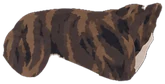
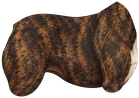
Hooper v3: galloping dog built from the green-screen parts sheet
New pieces (head with collar, torso, shoulder, thigh, and lower legs split at
the wrist and hock with round joints), assembled against the sheet's standing
dog. He now runs in a rotary gallop: back paws push, front paws reach, a beat
in the air with legs gathered. The spine bends (torso drawn as overlapping
strips along a curve), shoulders and haunches roll inside his outline, and
the neck edge is feathered where it sits on the body. Legs are longer to
match his taller build. No tail.

Claude-Session: https://claude.ai/code/session_0171wLnvZ3eAFLkSrXr3FSy1

diff --git a/scene/runner.js b/scene/runner.js
@@ -85,66 +85,97 @@ function makePuppet(imgs, parts, opt){
   return {draw:draw,groundSpeed:groundSpeed,leg:leg,hipY:hipY,jump:J}
 }
 
-/* Hooper's joints, in the v2 parts sheet's pixels (each piece's own coordinates). */
+/* Hooper's joints and rig (v3 parts sheet). Each piece has its own scale (s) to "dog units" = the sheet's standing dog in pixels,
+   a pivot in its own pixels, and for limbs an end joint. Torso and head are placed where they sit on the standing dog;
+   the hip is the body's origin. Legs have three bones each: front = shoulder, forearm, wrist+paw;
+   hind = thigh, shank, hock+paw. The lower pieces were cut from the lengthened legs with round caps at the joint. */
 var DOGPARTS={
- torso:{pivot:[48,44],hip:[48,44],sho:[272,74],neck:[258,92]},
- head:{pivot:[52,186],scale:0.84},
- fu:{pivot:[74.4,34.1],end:[31.7,101.2]},fu_far:{pivot:[88.2,30],end:[31.5,108.9]},
- fl:{pivot:[43.1,29.8],end:[69.1,163]},fl_far:{pivot:[37.7,30.1],end:[47.4,154]},
- hu:{pivot:[43.7,34.9],end:[116.2,102.7]},hu_far:{pivot:[50.1,34.7],end:[102.2,103.9]},
- hl:{pivot:[69.9,29.1],end:[43.9,179]}
+ torso:{s:1.035,pivot:[5,45],at:[35,208]},
+ head:{s:0.86,pivot:[110,300],at:[478,264]},
+ fu:{s:0.94,pivot:[58,40],end:[55,212],at:[408,262]},
+ fl:{s:0.85,pivot:[38,26],end:[40,246]},
+ fp:{s:0.85,pivot:[40,28],end:[64,98]},
+ hu:{s:0.82,pivot:[72,44],end:[70,232],at:[118,262]},
+ hl:{s:1.02,pivot:[40,28],end:[37.5,150]},
+ hp:{s:1.02,pivot:[37.5,28],end:[77,151]}
 };
-/* Hooper: a trotting cutout dog. Each leg is two pieces (front: upper leg + forearm/paw, hind: haunch + hock/paw).
-   Leg angles are set like a real dog's (degrees from straight down, + = forward): elbow behind the shoulder; hind leg
-   in a Z (stifle ahead of the hip, hock angled back, paw landing behind the rump). Diagonal pairs move together (a trot). Body height is solved each
-   frame so the lowest paw touches the ground. Far legs use the *_far pieces (or the near ones) drawn darker. */
+/* Hooper: a galloping cutout dog (rotary gallop). Footfalls in one stride: near hind, far hind, far front, near front,
+   then a moment in the air with the legs gathered. Each bone follows keyframes (degrees from straight down,
+   + = forward) through: plant -> sweep back -> push off -> fold -> swing -> reach. The wrist flicks the front paw up
+   behind the forearm after push-off; the hock closes to lift the hind paw, then opens to drive.
+   The body pitches (chest up while the hinds push, rump up while the fronts land) and flexes a little.
+   Body height follows the lowest paw, plus a lift during the flight phase. */
 function makeDog(imgs, parts, opt){
   opt=opt||{};
-  var R=Math.PI/180,T=Math.PI*2,K=opt.imgScale||1,P=parts,tor=P.torso;
+  var R=Math.PI/180,T=Math.PI*2,K=opt.imgScale||1,P=parts,FAR=opt.far||[14,-4];
   function sub(a,b){return [a[0]-b[0],a[1]-b[1]]}
   function add(a,b){return [a[0]+b[0],a[1]+b[1]]}
   function rot(v,a){var c=Math.cos(a*R),s=Math.sin(a*R);return [v[0]*c-v[1]*s,v[0]*s+v[1]*c]}
-  function rel(n){return sub(tor[n],tor.pivot)}
-  var HIP=rel('hip'),SHO=rel('sho'),NECK=rel('neck'),FAR=opt.far||[16,-6];
-  function bone(n){var v=sub(P[n].end,P[n].pivot);return {rest:Math.atan2(v[0],v[1])/R,len:Math.hypot(v[0],v[1])}}
-  function has(n){return imgs[n]&&(imgs[n].naturalWidth||imgs[n].width)}
-  function nm(n,far){return far&&P[n+'_far']&&has(n+'_far')?n+'_far':n}
-  var B={};['fu','fu_far','fl','fl_far','hu','hu_far','hl'].forEach(function(n){if(P[n])B[n]=bone(n)});
+  function pt(o,l,a){return [o[0]+l*Math.sin(a*R),o[1]+l*Math.cos(a*R)]}
+  var O=P.hu.at,SHO=sub(P.fu.at,O),NECK=sub(P.head.at,O),TOR=sub(P.torso.at,O);
+  function bone(n){var p=P[n],v=[(p.end[0]-p.pivot[0])*p.s,(p.end[1]-p.pivot[1])*p.s];return {rest:Math.atan2(v[0],v[1])/R,len:Math.hypot(v[0],v[1])}}
+  var B={};['fu','fl','fp','hu','hl','hp'].forEach(function(n){B[n]=bone(n)});
   var dark={};
   function shade(n){if(dark[n])return dark[n];var s=imgs[n],c=document.createElement('canvas');c.width=s.naturalWidth||s.width;c.height=s.naturalHeight||s.height;
-    var x=c.getContext('2d');x.drawImage(s,0,0);x.globalCompositeOperation='source-atop';x.fillStyle='rgba(8,14,30,.36)';x.fillRect(0,0,c.width,c.height);return dark[n]=c}
-  function piece(ctx,n,at,ang,dk,sc){var i=P[n];ctx.save();ctx.translate(at[0],at[1]);ctx.rotate(ang*R);if(sc)ctx.scale(sc,sc);ctx.scale(1/K,1/K);
-    ctx.drawImage(dk?shade(n):imgs[n],-i.pivot[0]*K,-i.pivot[1]*K);ctx.restore()}
-  function pt(o,l,a){return [o[0]+l*Math.sin(a*R),o[1]+l*Math.cos(a*R)]}
-  function sm(x){return x*x*(3-2*x)}
-  // p: 0 = paw lands in front, 0..0.5 stance (paw sweeps back), 0.5..1 swing forward.
-  var FU0=opt.frontUpper==null?-16:opt.frontUpper, FS=opt.frontSwing||22, HU0=opt.hindUpper==null?42:opt.hindUpper, HS=opt.hindSwing||13,
-      HR=opt.hindRel==null?-84:opt.hindRel, HF=opt.hindFlex==null?34:opt.hindFlex, HP=opt.hindPush==null?12:opt.hindPush;
-  function front(p){p=((p%1)+1)%1;var U=FU0+FS*Math.cos(T*p),r=18;
-    if(p>0.5){var u=(p-0.5)/0.5;r=18-95*Math.pow(Math.sin(Math.PI*Math.min(1,u*1.12)),1.3)}   // wrist folds back, paw tucks up
-    return {U:U,L:U+r}}
-  function hind(p){p=((p%1)+1)%1;var U=HU0+HS*Math.cos(T*p),r=HR;
-    if(p>0.5){var u=(p-0.5)/0.5;r=HR-HF*Math.sin(Math.PI*u)}                                 // stifle and hock flex, paw lifts
-    else r=HR+HP*sm(Math.min(1,p/0.45));                                                        // push-off
-    return {U:U,L:U+r}}
-  function chain(at,u,l,a){var k=pt(at,B[u].len,a.U);return {k:k,paw:pt(k,B[l].len,a.L),ru:B[u].rest-a.U,rl:B[l].rest-a.L}}
-  function pose(p){
-    var pitch=1.2*Math.sin(T*2*p+0.6);
-    var sho=rot(SHO,pitch),hip=rot(HIP,pitch);
-    var a=chain(sho,'fu','fl',front(p)),b=chain(add(sho,FAR),nm('fu',1),nm('fl',1),front(p+0.5)),
-        c=chain(hip,'hu','hl',hind(p+0.5)),d=chain(add(hip,FAR),nm('hu',1),nm('hl',1),hind(p));   // trot: near-front + far-hind together
-    var low=Math.max(a.paw[1],b.paw[1],c.paw[1],d.paw[1]);
-    return {pitch:pitch,sho:sho,hip:hip,a:a,b:b,c:c,d:d,y:-low}}
-  // ground covered per cycle, from how far the planted front paw sweeps back during stance
-  var stride=(function(){var f0=chain([0,0],'fu','fl',front(0.02)).paw[0],f1=chain([0,0],'fu','fl',front(0.48)).paw[0];return (f0-f1)/0.46})();
+    var x=c.getContext('2d');x.drawImage(s,0,0);x.globalCompositeOperation='source-atop';x.fillStyle='rgba(8,14,30,.38)';x.fillRect(0,0,c.width,c.height);return dark[n]=c}
+  function piece(ctx,n,at,ang,dk){var p=P[n];ctx.save();ctx.translate(at[0],at[1]);ctx.rotate(ang*R);ctx.scale(p.s/K,p.s/K);
+    ctx.drawImage(dk?shade(n):imgs[n],-p.pivot[0]*K,-p.pivot[1]*K);ctx.restore()}
+  function cr(k,p){var n=k.length,x=((p%1)+1)%1*n,i=Math.floor(x),t=x-i,a=k[(i-1+n)%n],b=k[i%n],c=k[(i+1)%n],d=k[(i+2)%n];
+    return 0.5*((2*b)+(-a+c)*t+(2*a-5*b+4*c-d)*t*t+(-a+3*b-3*c+d)*t*t*t)}
+  // Keyframes per bone, 8 per stride, starting at that paw's touchdown. Stance is roughly the first 3 keys.
+  //                  plant  sweep  under  push   fold   fold   swing  reach
+  var KF={fu:[         26,     8,   -12,   -28,   -18,     4,    22,    30],    // shoulder rolls forward to reach, back to push
+          fl:[         22,     8,   -10,   -32,   -28,    -6,    14,    26],
+          fp:[         26,    10,    -4,   -46,  -112,   -84,    -6,    30],    // wrist flicks the paw up behind, then it reaches out
+          hu:[         20,     8,    -4,   -14,    -8,     6,    16,    22],    // thigh swings with the haunch
+          hl:[        -14,   -26,   -40,   -54,   -66,   -54,   -36,   -18],    // shank angles back from the knee
+          hp:[          6,    -6,   -22,   -46,     6,    16,    16,    10]};   // hock: straight on the push, snaps shut to lift the paw, opens to reach
+  var OFF={nh:0,fh:0.07,ff:0.40,nf:0.48};                                       // when each paw lands, as a fraction of the stride
+  function chain(at,f,p){var a=f?['fu','fl','fp']:['hu','hl','hp'],A=a.map(function(n){return cr(KF[n],p)});
+    var k1=pt(at,B[a[0]].len,A[0]),k2=pt(k1,B[a[1]].len,A[1]),paw=pt(k2,B[a[2]].len,A[2]);
+    return {n:a,j:[at,k1,k2],paw:paw,r:[B[a[0]].rest-A[0],B[a[1]].rest-A[1],B[a[2]].rest-A[2]]}}
+  function body(p){
+    var pitch=-5*Math.cos(T*(p-0.12))+1.5*Math.sin(T*2*p);             // chest up on the hind push, rump up on the front landing
+    var flex=1+0.035*Math.cos(T*(p-0.52));                              // stretched when the legs are spread, gathered in the air
+    var air=p>0.8?Math.sin(Math.PI*(p-0.8)/0.2):0;                      // flight after the last front paw leaves
+    var arch=4+21*Math.cos(T*(p-0.97));                                 // spine: rounded up when the legs bunch under (+), long and flat when they reach out
+    return {pitch:pitch,flex:flex,air:air,arch:arch}}
+  // Spine bend. The torso is drawn as thin vertical strips laid along a curve; points on the body (hip, shoulder,
+  // neck) ride the same curve. u runs -1 (rump) .. +1 (chest) across the torso picture.
+  var TP=P.torso,TW={xm:232,half:226,n:32},OV=7;   // OV: strip overlap (torso px) so no gap opens where strips tilt apart
+  function uOf(v){return ((v[0]-TOR[0])/TP.s+TP.pivot[0]-TW.xm)/TW.half}                // body point (dog units) -> u
+  function dyAt(u,A){return A*(u*u-0.35)}                                              // torso px, + = down
+  function thAt(u,A){return Math.atan(2*A*u/TW.half)}                                  // radians
+  function onBody(v,b){var u=uOf(v);return rot([v[0]*b.flex,v[1]+dyAt(u,b.arch)*TP.s],b.pitch)}
+  var U_NECK=uOf(NECK);
+  function pose(p){p=((p%1)+1)%1;var b=body(p);
+    var sho=onBody(SHO,b),hip=onBody([0,0],b);
+    var a=chain(sho,1,p-OFF.nf),bb=chain(add(sho,FAR),1,p-OFF.ff),c=chain(hip,0,p-OFF.nh),d=chain(add(hip,FAR),0,p-OFF.fh);
+    var low=Math.max(a.paw[1],bb.paw[1],c.paw[1],d.paw[1]);
+    return {b:b,sho:sho,hip:hip,a:a,bb:bb,c:c,d:d,y:-low-14*b.air}}
+  // ground covered per stride: how far the near front paw sweeps back (relative to the body) while it's planted
+  var stride=(function(){var s=0.02,e=0.30;return (chain([0,0],1,s).paw[0]-chain([0,0],1,e).paw[0])/(e-s)})();
+  var LAYS={};
+  function layer(ctx,k){var w=ctx.canvas.width,h=ctx.canvas.height,L=LAYS[k]||(LAYS[k]=document.createElement('canvas'));if(L.width!==w||L.height!==h){L.width=w;L.height=h}
+    var o=L.getContext('2d');o.setTransform(1,0,0,1,0,0);o.globalCompositeOperation='source-over';o.clearRect(0,0,w,h);o.setTransform(ctx.getTransform());return L}
+  function bentTorso(c,b){var img=imgs.torso,W=(img.naturalWidth||img.width)/K,H=(img.naturalHeight||img.height)/K,n=TW.n,w=W/n,pv=TP.pivot;
+    c.save();c.rotate(b.pitch*R);c.scale(b.flex,1);c.translate(TOR[0],TOR[1]);c.scale(TP.s,TP.s);
+    for(var i=0;i<n;i++){var x0=i*w,xc=x0+w/2,u=(xc-TW.xm)/TW.half;c.save();c.translate(xc-pv[0],dyAt(u,b.arch));c.rotate(thAt(u,b.arch));
+      var o0=Math.max(0,x0-OV),o1=Math.min(W,x0+w+OV);c.drawImage(img,o0*K,0,(o1-o0)*K,H*K,o0-xc,-pv[1],o1-o0,H);c.restore()}
+    c.restore()}
   function draw(ctx,p,x,gy,scale,lift){
     var q=pose(p);ctx.save();ctx.translate(x,gy);ctx.scale(scale,scale);ctx.translate(0,q.y-(lift||0));
-    var neck=rot(NECK,q.pitch);
-    function leg(u,l,at,ch,dk){piece(ctx,l,ch.k,ch.rl,dk);piece(ctx,u,at,ch.ru,dk)}
-    leg(nm('fu',1),nm('fl',1),add(q.sho,FAR),q.b,true);leg(nm('hu',1),nm('hl',1),add(q.hip,FAR),q.d,true);
-    piece(ctx,'torso',[0,0],q.pitch);
-    leg('hu','hl',q.hip,q.c,false);leg('fu','fl',q.sho,q.a,false);
-    piece(ctx,'head',neck,-q.pitch*0.6+1.5*Math.sin(T*2*p+1),false,P.head.scale);   // nose level, a small nod each step
+    function low(ch,dk){piece(ctx,ch.n[2],ch.j[2],ch.r[2],dk);piece(ctx,ch.n[1],ch.j[1],ch.r[1],dk)}   // paw under the shank, shank over it
+    low(q.bb,true);piece(ctx,'fu',q.bb.j[0],q.bb.r[0],true);low(q.d,true);piece(ctx,'hu',q.d.j[0],q.d.r[0],true);   // far legs, darker
+    function upper(c){piece(c,'hu',q.c.j[0],q.c.r[0]);piece(c,'fu',q.a.j[0],q.a.r[0])}
+    upper(ctx);                                                                           // near thigh + shoulder under the body (the top of each leg)
+    var tl=layer(ctx,'t');bentTorso(tl.getContext('2d'),q.b);                              // the bent body, drawn once
+    ctx.save();ctx.setTransform(1,0,0,1,0,0);ctx.drawImage(tl,0,0);ctx.restore();
+    var ul=layer(ctx,'u'),o=ul.getContext('2d');upper(o);o.setTransform(1,0,0,1,0,0);o.globalCompositeOperation='destination-in';o.drawImage(tl,0,0);o.globalCompositeOperation='source-over';
+    ctx.save();ctx.setTransform(1,0,0,1,0,0);ctx.drawImage(ul,0,0);ctx.restore();         // ...and again on top, trimmed to the body, so the shoulder and haunch roll inside his outline
+    low(q.c);low(q.a);                                                                   // near lower legs over the body
+    var nk=onBody(NECK,q.b);
+    piece(ctx,'head',nk,-q.b.pitch*0.7-thAt(U_NECK,q.b.arch)/R*0.5+2*Math.sin(T*p+0.8));                            // head stays fairly level, bobs with the stride
     ctx.restore()}
   return {draw:draw,stride:stride,pose:pose}
 }
@@ -197,7 +228,7 @@ function makeDog(imgs, parts, opt){
   function wake(){if(!on){on=true;last=0;requestAnimationFrame(frame)}}
   function jump(){if(G&&!G.over)hideHint();if(!pp||(jt>=0&&jt<jA1+0.06)||st>=0)return;var game=G&&!G.over;jH=game?540:330;jA1=game?0.78:0.64;jA2=jA1+0.31;jt=0;if(hd)hd.hop=-0.14;wake()}   // Hooper hops a beat after Tristan
   // Hooper: trots in from the left, runs alongside, then dashes off ahead. null when he's not out.
-  var dog=null,hd=null,DSCALE=0.12,STAY=10,HOP=106;   // HOP: hop height in source px
+  var dog=null,hd=null,DSCALE=0.074,STAY=10,HOP=172;   // HOP: hop height in source px
   function ease(x){return x<.5?2*x*x:1-Math.pow(-2*x+2,2)/2}
   function hooper(){if(!dog)return;
     if(!hd){hd={mode:'in',t:0,p:0,x:-60,hop:-1};setPaw(true)}
@@ -326,9 +357,9 @@ function makeDog(imgs, parts, opt){
   function start(){pp=makePuppet(imgs,PARTS,{imgScale:0.3});size();drawGrid();drawRunner();if(btn)btn.hidden=false;if(playBtn&&!still)playBtn.hidden=false;showHud();loadDog();if(still){on=false;return}
     if('IntersectionObserver' in window){new IntersectionObserver(function(e){var v=e[0].isIntersecting;if(v&&!on){on=true;requestAnimationFrame(frame)}on=v}).observe(box)}
     requestAnimationFrame(frame)}
-  function loadDog(){var dn=['torso','head','fu','fu_far','fl','fl_far','hu','hu_far','hl'],di={},dl=dn.length;
-    dn.forEach(function(n){var i=new Image();i.onload=i.onerror=function(){if(--dl===0&&dn.every(function(k){return di[k].naturalWidth>0})){dog=makeDog(di,DOGPARTS,{imgScale:0.5});if(paw&&!(G&&!G.over))paw.hidden=false}};
-      i.src='scene/hooper/'+n+'.webp?v=4';di[n]=i})}
+  function loadDog(){var dn=['torso','head','fu','fl','fp','hu','hl','hp'],di={},dl=dn.length;
+    dn.forEach(function(n){var i=new Image();i.onload=i.onerror=function(){if(--dl===0&&dn.every(function(k){return di[k].naturalWidth>0})){dog=makeDog(di,DOGPARTS,{imgScale:0.3});if(paw&&!(G&&!G.over))paw.hidden=false}};
+      i.src='scene/hooper/'+n+'.webp?v=5';di[n]=i})}
   names.forEach(function(n){var i=new Image();i.onload=i.onerror=function(){if(--left===0)start()};i.src='scene/runner/'+n+'.webp?v=3';imgs[n]=i});
   size();drawGrid();window.addEventListener('resize',function(){size();drawGrid();drawRunner()});
 })();
